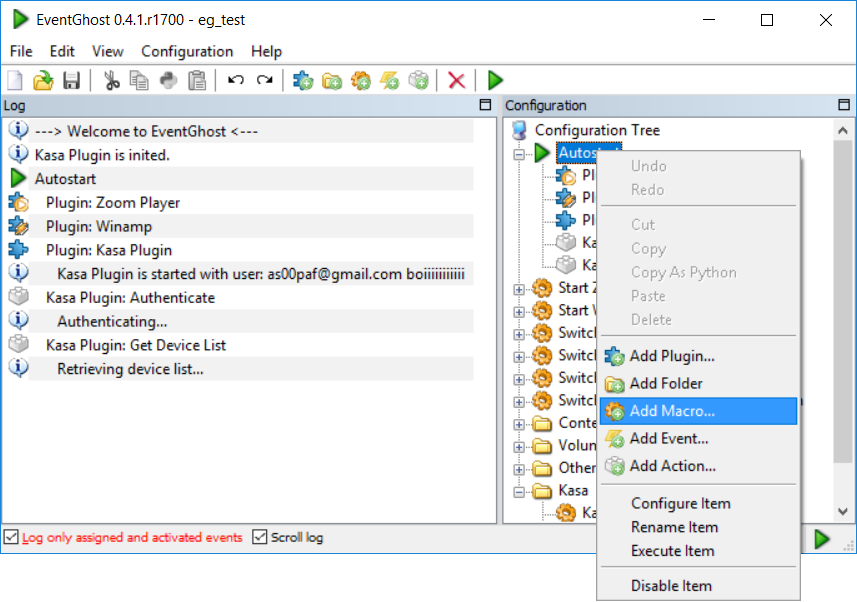
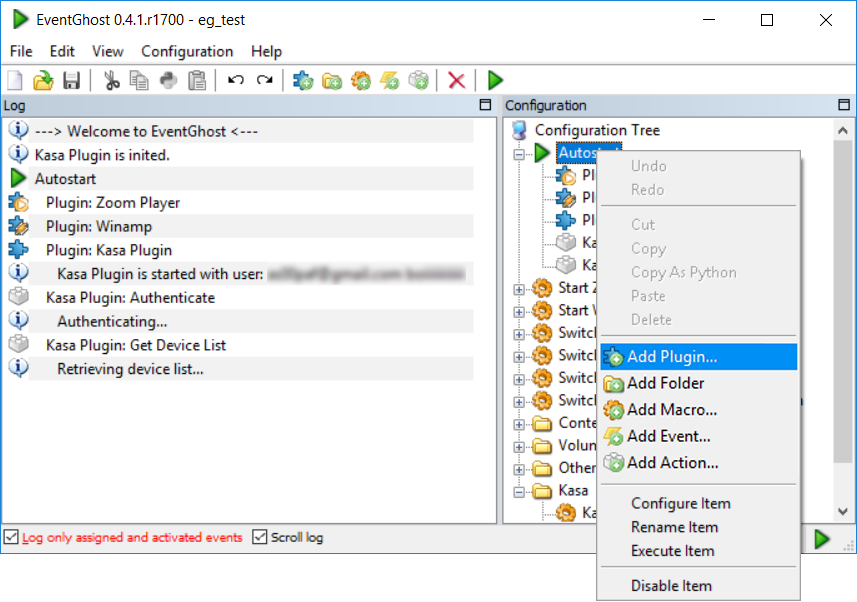
Updated readme

Changed region(s): [[0.6978, 0.5681, 0.9405, 0.8073], [0.3034, 0.4186, 0.5461, 0.4784]]

diff --git a/README.md b/README.md
@@ -26,7 +26,7 @@ Using the plugin is very simple, just follow these easy steps:
 
 4. Right-click on Auto-Start and click on Add Macro...
 
-![Screenshot 4](https://github.com/as00paf/Kasa/blob/master/screenshots/ps1.png "Screenshot 4")
+![Screenshot 4](https://github.com/as00paf/Kasa/blob/master/screenshots/ps4.png "Screenshot 4")
 
 5. Select Kasa Plugin>Authenticate
 
@@ -36,7 +36,7 @@ Using the plugin is very simple, just follow these easy steps:
 
 7. Add a new folder to your configuration tree called Kasa and right-click on it to add a new macro
 
-![Screenshot 7](https://github.com/as00paf/Kasa/blob/master/screenshots/ps1.png "Screenshot 7")
+![Screenshot 7](https://github.com/as00paf/Kasa/blob/master/screenshots/ps4.png "Screenshot 7")
 
 8. Select Toggle Device State
 
